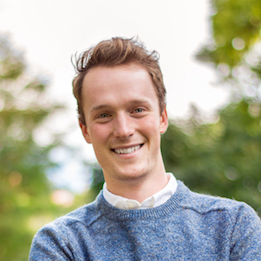
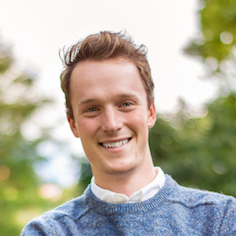
add some people's photos/bios

diff --git a/nicho/js/script.js b/nicho/js/script.js
@@ -176,18 +176,23 @@ $(document).ready(function(){
     });
 
     var people = {
-        "nicho" : ['Nicholas Hatsopoulos, Ph.D.', 'Principal Investigator', 'nicho@uchicago.edu', 'bio', './img/bigpic', '', ''],
-        "rebecca" : ['Rebecca Junod, B.S.', 'Lab Manager', 'junodrm@uchicago.edu', 'bio', './img/bigpic', '', ''],
-        "carrie" : ['Carrie Balcer, B.S.', 'Placeholder', 'cabalcer@uchicago.edu', 'bio', './img/bigpic', '', ''],
-        "karthikeyan" : ['Karthikeyan Balasubramanian, Ph.D.', 'Placeholder', 'karthikeyanb@uchicago.edu', 'bio', './img/bigpic', '', ''],
-        "jeff" : ['Jeff Walker, Ph.D.', 'Placeholder', 'walkerjd@uchicago.edu', 'bio', './img/bigpic', '', ''],
-        "vasileios" : ['Vasileios Papadourakis, Ph.D.', 'Placeholder', 'vpapadourakis@uchicago.edu', 'bio', './img/bigpic', 'Google Scholar Profile', ''],
-        "alex" : ['Alex Lee, M.S.', 'Placeholder', 'leealex@uchicago.edu', 'bio', './img/bigpic', '', ''],
-        "marina" : ['Marina Sundiang, B.S.', 'Placeholder', 'sundiang@uchicago.edu', 'bio', './img/bigpic', '', ''],
-        "wei" : ['Wei Liang, M.S.', 'Placeholder', 'weiliang@uchicago.edu', 'bio', './img/bigpic', '', ''],
-        "dalton" : ['Dalton Moore, B.S.', 'Placeholder', 'daltonm@uchicago.edu', 'bio', './img/people/dalton.jpg', '', ''],
-        "caleb" : ['Caleb Sponheim, B.S.', 'Placeholder', 'calebsponheim@uchicago.edu', 'bio', './img/people/caleb.jpg', '', ''],
-        "george" : ['George Saieed', 'Undergrad Research Assistant', 'gs@georgesaieed.com', 'bio', './img/bigpic', 'Personal Site', 'http://georgesaieed.com']
+        "nicho" : ['Nicholas Hatsopoulos, Ph.D.', 'Principal Investigator', 'nicho@uchicago.edu', `Nicholas G. “Nicho”  Hatsopoulos, Ph.D. is currently a Professor at the University of Chicago. Dr. Hatsopoulos was also Chairman of the Computational Neuroscience graduate program from 2008-2015. He is currently running a laboratory with five graduate students, three postdoctoral fellows, and several technicians which is funded in part by the National Institutes of Health.  From January 1998 to December 2001, Dr. Hatsopoulos was an Assistant Professor of Research in the Department of Neuroscience at Brown University. Dr. Hatsopoulos completed two postdoctoral research fellowships, one in the Department of Neuroscience at Brown University and the other in the Computational Neuroscience Program at the California Institute of Technology. <br><br>
+
+        Dr. Hatsopoulos completed his B.A. in Physics from Williams College in 1984, his M.S. in Psychology in 1991 and his Ph.D. in Cognitive Science from Brown University in 1992. <br><br>
+        
+        In 2001, he co-founded a company, Cyberkinetics Neurotechnology Systems, which took the basic scientific research he and his colleagues conducted to develop neural prosthesis technology to assist people with severe motor disabilities. <br><br>
+        
+        His research focuses on the neural basis of motor control and learning. He is investigating what features of motor behavior are encoded and how this information is represented in the collective activity of neuronal ensembles in the motor cortex. He is also interested in how these representations change as motor learning occurs.  To answer these questions, the electrical discharge of many motor cortical neurons is simultaneously recorded using multi-electrode arrays and correlated with motor behavior. The encoding properties of individual motor cortical neurons are being studied to determine how these single cell properties relate to higher-order representations involving groups of neurons. The possibility that changes in functional connectivity among neurons may occur during motor learning is also being explored.`, './img/people/nicho.jpg', '', ''],
+        "rebecca" : ['Rebecca Junod, B.S.', 'Lab Manager', 'junodrm@uchicago.edu', 'bio', './img/people', '', ''],
+        "karthikeyan" : ['Karthikeyan Balasubramanian, Ph.D.', 'Placeholder', 'karthikeyanb@uchicago.edu', 'bio', './img/people', '', ''],
+        "jeff" : ['Jeff Walker, Ph.D.', 'Placeholder', 'walkerjd@uchicago.edu', 'Jeff defended his PhD in July 2018 after developing methods for studying the cortical contributions to motor control with marmosets engaging in unconstrained natural behaviors.', './img/people/jeff.jpg', '', ''],
+        "vasileios" : ['Vasileios Papadourakis, Ph.D.', 'Postdoctoral Scholar', 'vpapadourakis@uchicago.edu', 'My interests are broadly in the field of motor control with a focus on the sensory capabilities of the motor system and its role in perception. My research is driven by two kinds of questions: First, how is visual and somatosensory information represented and utilized by the motor system to prepare, initiate, monitor and control movement. Second, what is the nature and significance of the motor system’s visual responses during action observation. My BSc is in Applied Mathematics and my M.S. in the Brain and Mind Sciences. For my PhD, I studied the functional properties of primate premotor cortex during execution and observation of grasping actions.', './img/people', 'Google Scholar Profile', 'https://scholar.google.com/citations?user=vWdfch8AAAAJ&hl=en'],
+        "alex" : ['Alex Lee, M.S.', 'Placeholder', 'leealex@uchicago.edu', 'bio', './img/people/alex.png', '', ''],
+        "marina" : ['Marina Sundiang, B.S.', 'Placeholder', 'sundiang@uchicago.edu', 'Marina Sundiang is a PhD Candidate in computational neuroscience studying motor learning in marmosets.', './img/people/marina.jpg', '', ''],
+        "wei" : ['Wei Liang, M.S.', 'Placeholder', 'weiliang@uchicago.edu', 'Wei Liang is a PhD Candidate at the University of Chicago.', './img/people/wei.jpg', '', ''],
+        "dalton" : ['Dalton Moore, B.S.', 'Graduate Student', 'daltonm@uchicago.edu', 'Dalton is a PhD student in the Computational Neuroscience program. He completed a Bachelor\'s and a Master\'s Degree in Biomedical Engineering at Arizona State University. He is interested in the fundamental operations computed by motor cortical circuits, and particularly the functional connectivity patterns that produce these computations at the local and macro-scale.', './img/people/dalton.jpg', '', ''],
+        "caleb" : ['Caleb Sponheim, B.S.', 'Graduate Student', 'calebsponheim@uchicago.edu', 'Caleb Sponheim is trying to understand how the brain learns, plans and executes movements. He leverages those findings to improve the experience of using brain-machine interfaces, which help restore function to people who have disabilities.', './img/people/caleb.jpg', 'Personal Site', 'http://www.calebsponheim.com/'],
+        "george" : ['George Saieed', 'Undergrad Research Assistant', 'gs@georgesaieed.com', 'bio', './img/people/george.jpeg', 'Personal Site', 'http://georgesaieed.com']
     }
 
     $(".small-person").click(function(e) {

diff --git a/nicho/index.html b/nicho/index.html
@@ -195,6 +195,21 @@
 
         <div id="people" class="section people fading">
             <div class="title">People</div>
+
+            <div class="people-nav">
+                <div id="nicho" class="small-person chosen"></div>
+                <div id="rebecca" class="small-person"></div>
+                <div id="karthikeyan" class="small-person"></div>
+                <div id="jeff" class="small-person"></div>
+                <div id="vasileios" class="small-person"></div>
+                <div id="alex" class="small-person"></div>
+                <div id="marina" class="small-person"></div>
+                <div id="wei" class="small-person"></div>
+                <div id="dalton" class="small-person"></div>
+                <div id="caleb" class="small-person"></div>
+                <div id="george" class="small-person"></div>
+            </div>
+
             <div class="person-selected">
                 <div class="big-person">
                 </div>
@@ -210,20 +225,6 @@
             </div>
 
             
-            <div class="people-nav">
-                <div id="nicho" class="small-person chosen"></div>
-                <div id="rebecca" class="small-person"></div>
-                <div id="carrie" class="small-person"></div>
-                <div id="karthikeyan" class="small-person"></div>
-                <div id="jeff" class="small-person"></div>
-                <div id="vasileios" class="small-person"></div>
-                <div id="alex" class="small-person"></div>
-                <div id="marina" class="small-person"></div>
-                <div id="wei" class="small-person"></div>
-                <div id="dalton" class="small-person"></div>
-                <div id="caleb" class="small-person"></div>
-                <div id="george" class="small-person"></div>
-            </div>
         </div>
 
         <div id="news" class="section news fading">

diff --git a/nicho/css/style.css b/nicho/css/style.css
@@ -206,12 +206,48 @@ a {
     margin-top: 100px;
 }
 
+#nicho {
+    background-image: url('../img/people/nicho-thumb.jpg');
+}
+
+#rebecca {
+    background-image: url('../img/people/rebecca-thumb.jpg');
+}
+
+#karthikeyan {
+    background-image: url('../img/people/karthikeyan-thumb.jpg');
+}
+
+#jeff {
+    background-image: url('../img/people/jeff-thumb.jpg');
+}
+
+#vasileios {
+    background-image: url('../img/people/vasileios-thumb.jpg');
+}
+
+#alex {
+    background-image: url('../img/people/alex-thumb.png');
+}
+
+#marina {
+    background-image: url('../img/people/marina-thumb.jpg');
+}
+
+#wei {
+    background-image: url('../img/people/wei-thumb.jpg');
+}
+
 #dalton {
     background-image: url('../img/people/dalton-thumb.jpg');
 }
 
 #caleb {
     background-image: url('../img/people/caleb-thumb.jpg');
+}
+
+#george {
+    background-image: url('../img/people/george-thumb.jpeg');
 }
 
 .small-person {
@@ -448,6 +484,12 @@ a {
 
 #home {
     overflow-x: hidden;
+}
+
+@media(max-width: 1302px) {
+    .people-nav {
+        text-align: left;
+    }
 }
 
 @media (max-width: 1178px) {
